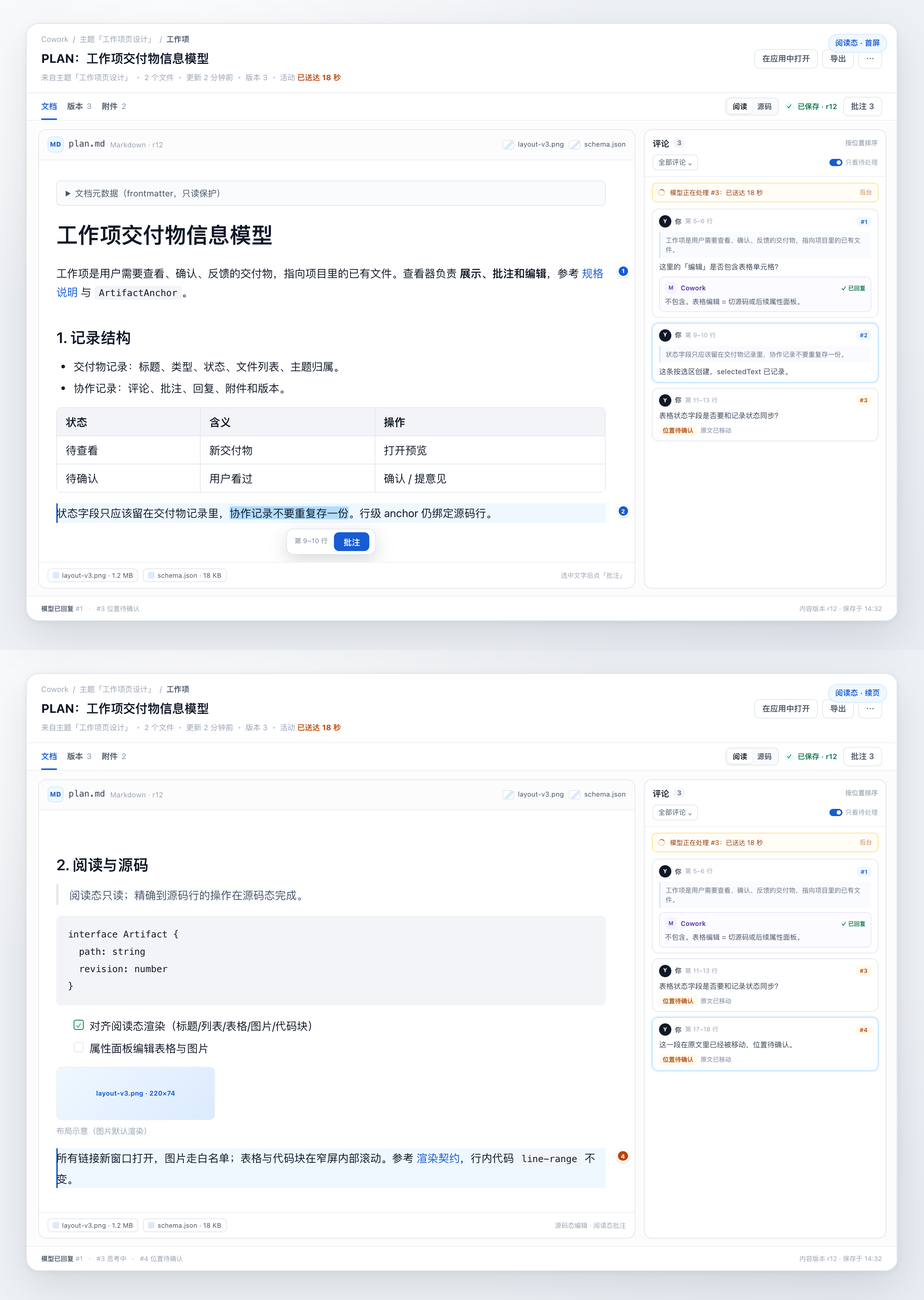
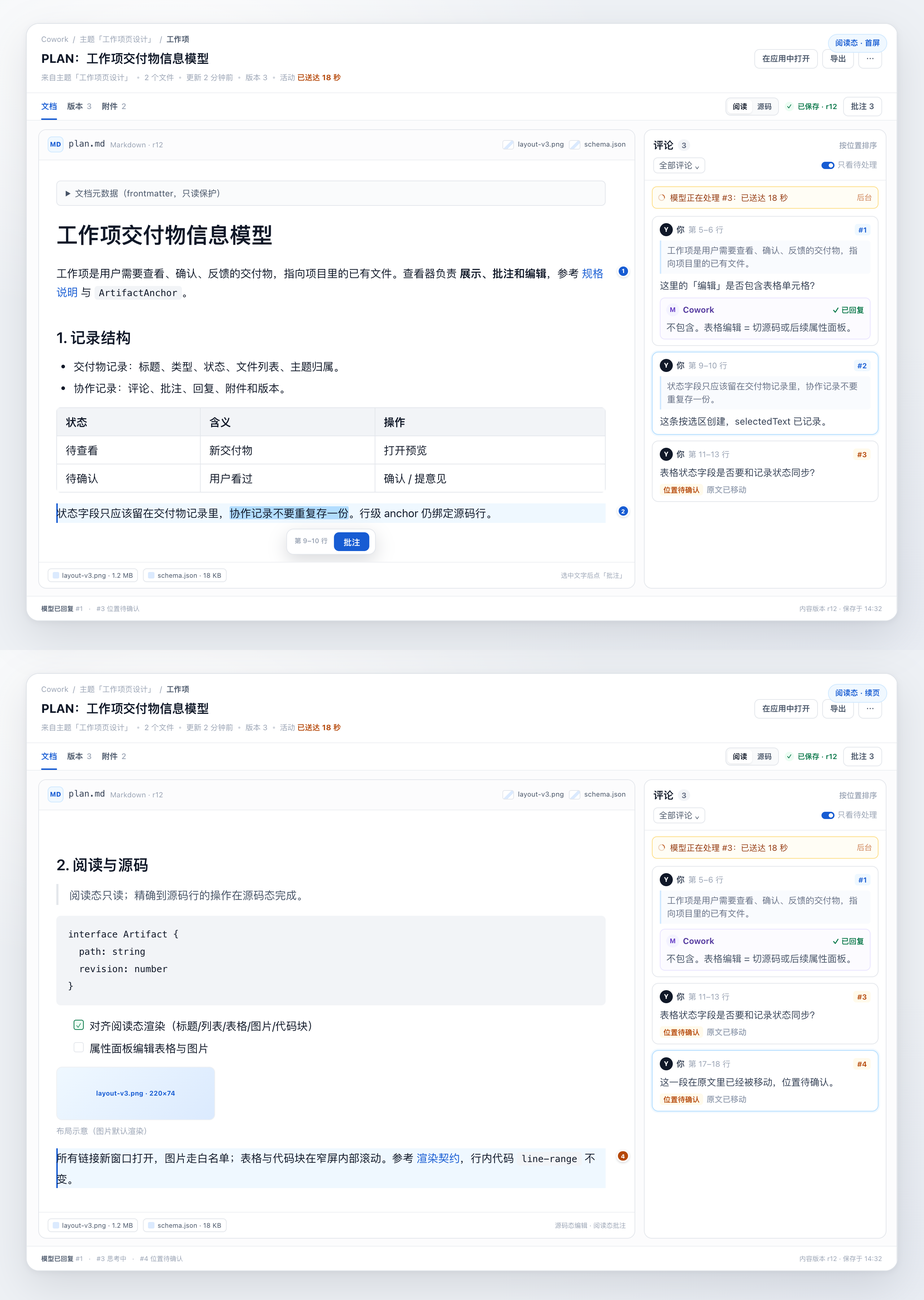
docs(work-item): 放大批注栏与批注内容字号
- 批注正文 13/20、引用 12/18、meta 11/16、chip 10/14，栏标题 14/20
- 同步批注历史、会话详情、390 抽屉与阅读态 demo 截图
- 工作项列表卡片字号不变，避免与批注内容混用层级

Changed region(s): [[0.6875, 0.0933, 0.9375, 0.4044], [0.6875, 0.5911, 0.9375, 0.8711]]

diff --git a/docs/design/work-item/assets/annotation-rail-demo.html b/docs/design/work-item/assets/annotation-rail-demo.html
@@ -27,7 +27,7 @@
   .board { display:flex; flex-direction:column; gap:10px; }
   .board-label { width:1208px; color:#667085; font-size:11px; font-weight:700; letter-spacing:.08em; text-transform:uppercase; }
   .board-label span { color:#98a2b3; font-weight:500; letter-spacing:0; text-transform:none; }
-  .app { position:relative; width:1208px; height:688px; display:flex; overflow:hidden; border:1px solid #dfe3e8; border-radius:16px; background:#fff; box-shadow:0 18px 48px rgba(16,24,40,.10), 0 2px 8px rgba(16,24,40,.06); }
+  .app { position:relative; width:1208px; height:760px; display:flex; overflow:hidden; border:1px solid #dfe3e8; border-radius:16px; background:#fff; box-shadow:0 18px 48px rgba(16,24,40,.10), 0 2px 8px rgba(16,24,40,.06); }
   .badge { position:absolute; top:12px; right:12px; z-index:20; padding:3px 9px; border:1px solid #d1e9ff; border-radius:999px; background:rgba(239,248,255,.94); color:var(--blue); font-size:10.5px; font-weight:650; }
 
   /* ===== board 1: right-rail list ===== */
@@ -88,16 +88,16 @@
   .file-icon { width:22px; height:22px; display:grid; place-items:center; border-radius:6px; background:var(--blue-soft); color:var(--blue); font-size:9px; font-weight:800; }
   .file-name { font-family:var(--mono); font-size:12px; }
   .file-meta { margin-left:auto; font-size:11px; color:var(--soft); }
-  .lines { position:relative; font-size:14px; line-height:24px; color:var(--ink); background:linear-gradient(90deg, var(--gutter) 0 48px, var(--gutter-line) 48px 49px, transparent 49px); padding:6px 0 14px; }
+  .lines { position:relative; font-size:15px; line-height:26.25px; color:var(--ink); background:linear-gradient(90deg, var(--gutter) 0 48px, var(--gutter-line) 48px 49px, transparent 49px); padding:6px 0 14px; }
   .line { position:relative; display:flex; align-items:flex-start; gap:8px; padding:1px 40px 1px 60px; white-space:pre-wrap; border-left:2px solid transparent; }
   .line:hover { background:var(--surface-muted); }
   .line.selected { background:var(--blue-soft); border-left-color:var(--blue); }
-  .line-num { position:absolute; left:12px; top:0; width:36px; text-align:right; color:var(--soft); font-family:var(--mono); font-size:10.5px; line-height:24px; }
+  .line-num { position:absolute; left:12px; top:0; width:36px; text-align:right; color:var(--soft); font-family:var(--mono); font-size:11px; line-height:26.25px; }
   .pin { position:absolute; right:6px; top:2px; min-width:17px; height:17px; padding:0 4px; display:inline-grid; place-items:center; border:2px solid #fff; border-radius:999px; background:var(--blue); color:#fff; font-size:8px; font-weight:800; line-height:1; box-shadow:0 1px 3px rgba(16,24,40,.18); }
   .pin.p-resolved { background:var(--green); }
-  .md-h1 { font-size:21px; line-height:30px; font-weight:700; }
-  .md-h2 { font-size:19px; line-height:28px; font-weight:700; }
-  .md-h3 { font-size:17px; line-height:26px; font-weight:700; }
+  .md-h1 { font-size:30px; line-height:39px; font-weight:700; }
+  .md-h2 { font-size:21px; line-height:28.35px; font-weight:600; }
+  .md-h3 { font-size:17.25px; line-height:24.15px; font-weight:600; }
   .line[data-kind="h1"] { padding-top:12px; }
   .line[data-kind="h2"] { padding-top:10px; }
   .inline-code { font-family:var(--mono); font-size:.88em; padding:1px 4px; border-radius:4px; background:var(--surface-muted); }
@@ -111,69 +111,70 @@
   .rail { flex:none; width:336px; min-height:0; display:flex; flex-direction:column; background:#fff; border:1px solid var(--line); border-radius:12px; box-shadow:0 1px 2px rgba(16,24,40,.05); overflow:hidden; }
   .rail-grip { position:absolute; left:-3px; top:0; bottom:0; width:6px; cursor:col-resize; background:transparent; }
   .rail-grip:hover, .rail-grip:focus { background:var(--blue-soft); }
-  .rail-head { flex:none; display:flex; flex-direction:column; gap:6px; padding:10px 12px 8px; border-bottom:1px solid var(--line-soft); }
+  .rail-head { flex:none; display:flex; flex-direction:column; gap:6px; padding:11px 12px 9px; border-bottom:1px solid var(--line-soft); }
   .rail-head-row { display:flex; align-items:center; gap:6px; }
-  .rail-title { font-size:12px; font-weight:700; }
-  .count-pill { min-width:20px; padding:0 6px; border-radius:999px; background:var(--surface-muted); color:var(--muted); font-size:10px; font-weight:700; line-height:18px; text-align:center; }
-  .rail-sort { margin-left:auto; color:var(--soft); font-size:9.5px; }
+  .rail-title { font-size:14px; line-height:20px; font-weight:650; }
+  .count-pill { min-width:20px; padding:0 6px; border-radius:999px; background:var(--surface-muted); color:var(--muted); font-size:10.5px; font-weight:700; line-height:16px; text-align:center; }
+  .rail-sort { margin-left:auto; color:var(--soft); font-size:10.5px; line-height:16px; font-weight:500; }
   .rail-tools { display:flex; align-items:center; gap:8px; }
-  .select { height:20px; max-width:108px; padding:0 6px; border:1px solid var(--line); border-radius:6px; background:#fff; color:var(--muted); font:inherit; font-size:10px; }
-  .switch { display:inline-flex; align-items:center; gap:5px; color:var(--soft); font-size:10px; cursor:pointer; user-select:none; }
+  .select { height:22px; max-width:112px; padding:0 6px; border:1px solid var(--line); border-radius:6px; background:#fff; color:var(--muted); font:inherit; font-size:11.5px; }
+  .switch { display:inline-flex; align-items:center; gap:5px; color:var(--soft); font-size:11px; line-height:16px; cursor:pointer; user-select:none; }
   .switch input { position:absolute; width:1px; height:1px; opacity:0; }
   .switch-track { position:relative; width:20px; height:11px; border-radius:999px; background:var(--line); }
   .switch-thumb { position:absolute; top:2px; left:2px; width:7px; height:7px; border-radius:50%; background:#fff; }
   .switch input:checked + .switch-track { background:var(--blue); }
   .switch input:checked + .switch-track .switch-thumb { transform:translateX(9px); }
-  .threads { flex:1; min-height:0; overflow:auto; padding:9px 10px; display:flex; flex-direction:column; gap:7px; }
-  .thread { display:flex; flex-direction:column; gap:5px; border:1px solid var(--line); border-radius:9px; background:#fff; padding:8px 9px 6px; cursor:pointer; }
+  .threads { flex:1; min-height:0; overflow:auto; padding:10px 10px 9px; display:flex; flex-direction:column; gap:8px; }
+  .thread { display:flex; flex-direction:column; gap:6px; border:1px solid var(--line); border-radius:9px; background:#fff; padding:9px 10px 8px; cursor:pointer; }
   .thread:hover { border-color:var(--blue-ring); }
   .thread[data-selected="true"] { border-color:var(--blue-ring); box-shadow:0 0 0 2px var(--blue-soft); }
-  .thread-head { display:flex; align-items:center; gap:5px; min-width:0; }
-  .avatar { width:17px; height:17px; display:grid; place-items:center; border-radius:50%; background:var(--ink); color:#fff; font-size:7.5px; font-weight:800; }
+  .thread-head { display:flex; align-items:center; gap:6px; min-width:0; }
+  .avatar { width:18px; height:18px; display:grid; place-items:center; border-radius:50%; background:var(--ink); color:#fff; font-size:9px; font-weight:800; }
   .avatar[data-author="model"] { background:var(--violet-soft); color:var(--violet); }
-  .thread-author { color:var(--ink); font-size:11px; font-weight:650; }
-  .thread-anchor { color:var(--soft); font-size:9.5px; overflow:hidden; text-overflow:ellipsis; white-space:nowrap; }
-  .anchor-chip { flex:none; margin-left:auto; padding:1px 5px; border-radius:4px; background:var(--blue-soft); color:var(--blue); font-size:9px; font-weight:700; }
+  .thread-author { color:var(--ink); font-size:11.5px; line-height:16px; font-weight:650; }
+  .thread-anchor { color:var(--soft); font-size:11px; line-height:16px; overflow:hidden; text-overflow:ellipsis; white-space:nowrap; }
+  .anchor-chip { flex:none; margin-left:auto; padding:1px 5px; border-radius:4px; background:var(--blue-soft); color:var(--blue); font-size:10px; line-height:14px; font-weight:650; }
   .anchor-chip[data-tone="done"] { background:var(--green-soft); color:var(--green); }
-  .quote { width:100%; text-align:left; padding:4px 7px; border:0; border-left:2px solid #d1e9ff; border-radius:0 4px 4px 0; background:#f9fbfe; color:var(--muted); font-size:9.5px; white-space:pre-wrap; cursor:pointer; }
-  .thread-body { font-size:11px; line-height:1.55; white-space:pre-wrap; word-break:break-word; }
-  .thread-meta { display:flex; flex-wrap:wrap; gap:5px; align-items:center; font-size:9.5px; color:var(--soft); }
-  .tstate { display:flex; align-items:center; gap:6px; padding:5px 7px; border:1px solid var(--amber-soft); border-radius:7px; background:var(--amber-soft); color:var(--amber); font-size:9.5px; }
+  .quote { display:-webkit-box; width:100%; text-align:left; padding:5px 8px; overflow:hidden; border:0; border-left:2px solid #d1e9ff; border-radius:0 4px 4px 0; background:#f9fbfe; color:var(--muted); font:inherit; font-size:12px; line-height:18px; white-space:pre-wrap; cursor:pointer; -webkit-line-clamp:2; -webkit-box-orient:vertical; }
+  .thread-body { font-size:13px; line-height:20px; white-space:pre-wrap; word-break:break-word; }
+  .thread-meta { display:flex; flex-wrap:wrap; gap:5px; align-items:center; font-size:11px; line-height:16px; color:var(--soft); }
+  .tstate { display:flex; align-items:center; gap:6px; padding:5px 7px; border:1px solid var(--amber-soft); border-radius:7px; background:var(--amber-soft); color:var(--amber); font-size:11px; line-height:16px; font-weight:600; }
   .tstate[data-tone="error"] { border-color:var(--red-soft); background:var(--red-soft); color:var(--red); }
   .tstate[data-tone="done"] { border-color:var(--green-soft); background:var(--green-soft); color:var(--green); }
-  .tstate-retry { margin-left:2px; padding:0; border:0; background:transparent; color:inherit; font:inherit; font-size:9.5px; font-weight:700; text-decoration:underline; cursor:pointer; }
+  .tstate-retry { margin-left:2px; padding:0; border:0; background:transparent; color:inherit; font:inherit; font-size:11px; font-weight:650; text-decoration:underline; cursor:pointer; }
   .tstate-age { margin-left:auto; opacity:.7; white-space:nowrap; }
   .thread-actions { display:flex; align-items:center; gap:8px; margin-top:2px; }
   .thread-actions .spacer { flex:1; }
-  .thread-action { padding:1px 0; border:0; background:transparent; color:var(--soft); font:inherit; font-size:9.5px; font-weight:600; cursor:pointer; }
+  .thread-action { padding:1px 0; border:0; background:transparent; color:var(--soft); font:inherit; font-size:11px; line-height:16px; font-weight:600; cursor:pointer; }
   .thread-action:hover { color:var(--ink); }
-  .resolved-line { display:flex; align-items:center; gap:6px; width:100%; padding:7px 9px; border:1px dashed var(--line); border-radius:9px; background:#fff; color:var(--muted); font-size:10px; text-align:left; cursor:pointer; }
+  .resolved-line { display:flex; align-items:center; gap:6px; width:100%; padding:8px 10px; border:1px dashed var(--line); border-radius:9px; background:#fff; color:var(--muted); font-size:11.5px; line-height:16px; text-align:left; cursor:pointer; }
   .resolved-text { flex:1; overflow:hidden; text-overflow:ellipsis; white-space:nowrap; }
 
   /* session state */
   .session { flex:1; min-height:0; display:flex; flex-direction:column; }
-  .session-head { flex:none; display:flex; align-items:center; gap:6px; padding:10px 12px 8px; border-bottom:1px solid var(--line-soft); }
-  .back { padding:1px 8px; border:1px solid var(--line); border-radius:6px; background:#fff; color:var(--ink); font:inherit; font-size:10px; font-weight:600; cursor:pointer; }
-  .session-title { font-size:11px; font-weight:650; }
-  .session-anchor { color:var(--soft); font-size:9.5px; }
+  .rail.session { flex:none; width:336px; }
+  .session-head { flex:none; display:flex; align-items:center; gap:6px; padding:11px 12px 9px; border-bottom:1px solid var(--line-soft); }
+  .back { padding:1px 8px; border:1px solid var(--line); border-radius:6px; background:#fff; color:var(--ink); font:inherit; font-size:11.5px; line-height:16px; font-weight:600; cursor:pointer; }
+  .session-title { font-size:13px; line-height:18px; font-weight:650; }
+  .session-anchor { color:var(--soft); font-size:11px; line-height:16px; }
   .msgs { flex:1; min-height:0; overflow:auto; padding:10px; display:flex; flex-direction:column; gap:8px; }
   .msg { display:flex; flex-direction:column; gap:4px; }
   .msg-head { display:flex; align-items:center; gap:5px; }
-  .msg-author { font-size:10px; font-weight:650; }
-  .msg-time { color:var(--soft); font-size:9.5px; }
-  .reply-mark { color:var(--green); font-size:9px; font-weight:650; }
-  .msg-body { font-size:11px; line-height:1.55; white-space:pre-wrap; }
-  .msg-user { padding:8px 9px; border:1px solid var(--line); border-radius:9px; background:#fff; }
-  .msg-model { padding:8px 9px; border:1px solid var(--violet-border); border-radius:9px; background:var(--violet-soft); }
+  .msg-author { font-size:11.5px; line-height:16px; font-weight:650; }
+  .msg-time { color:var(--soft); font-size:10.5px; line-height:16px; }
+  .reply-mark { color:var(--green); font-size:10.5px; line-height:16px; font-weight:650; }
+  .msg-body { font-size:13px; line-height:20px; white-space:pre-wrap; }
+  .msg-user { padding:9px 10px; border:1px solid var(--line); border-radius:9px; background:#fff; }
+  .msg-model { padding:9px 10px; border:1px solid var(--violet-border); border-radius:9px; background:var(--violet-soft); }
   .attachments { display:flex; flex-direction:column; gap:4px; align-items:flex-start; }
   .thumb { max-width:220px; max-height:140px; border-radius:8px; border:1px solid var(--line-soft); display:block; cursor:zoom-in; }
-  .att-meta { font-size:9.5px; color:var(--soft); }
-  .composer { flex:none; margin:0 10px 10px; padding:8px 9px; border:1px solid var(--line); border-radius:9px; background:#fff; display:flex; flex-direction:column; gap:6px; box-shadow:0 3px 10px rgba(16,24,40,.04); }
-  .composer textarea { width:100%; min-height:54px; max-height:160px; resize:vertical; border:1px solid var(--line-soft); border-radius:8px; background:#fff; color:inherit; padding:6px 8px; font:inherit; font-size:11.5px; line-height:1.6; }
+  .att-meta { font-size:11px; line-height:16px; color:var(--soft); }
+  .composer { flex:none; margin:0 10px 10px; padding:9px 10px; border:1px solid var(--line); border-radius:9px; background:#fff; display:flex; flex-direction:column; gap:7px; box-shadow:0 3px 10px rgba(16,24,40,.04); }
+  .composer textarea { width:100%; min-height:58px; max-height:160px; resize:vertical; border:1px solid var(--line-soft); border-radius:8px; background:#fff; color:inherit; padding:7px 9px; font:inherit; font-size:13px; line-height:20px; }
   .composer-row { display:flex; gap:8px; align-items:center; justify-content:space-between; }
-  .composer-hint { font-size:9.5px; color:var(--soft); }
-  .btn-primary { border:1px solid transparent; background:var(--ink); color:#fff; font:inherit; font-size:11.5px; font-weight:600; border-radius:7px; padding:3px 10px; cursor:pointer; }
-  .btn-secondary { border:1px solid var(--line); background:#fff; color:var(--ink); font:inherit; font-size:11.5px; font-weight:600; border-radius:7px; padding:3px 10px; cursor:pointer; }
+  .composer-hint { font-size:11px; line-height:16px; color:var(--soft); }
+  .btn-primary { border:1px solid transparent; background:var(--ink); color:#fff; font:inherit; font-size:11.5px; line-height:16px; font-weight:600; border-radius:7px; padding:4px 10px; cursor:pointer; }
+  .btn-secondary { border:1px solid var(--line); background:#fff; color:var(--ink); font:inherit; font-size:11.5px; line-height:16px; font-weight:600; border-radius:7px; padding:4px 10px; cursor:pointer; }
 
   /* narrow drawer board 5 */
   .narrow-app { position:relative; width:768px; height:640px; display:flex; overflow:hidden; border:1px solid #dfe3e8; border-radius:16px; background:#fff; box-shadow:0 18px 48px rgba(16,24,40,.10); }
@@ -181,7 +182,7 @@
   .drawer { position:absolute; left:0; right:0; bottom:0; height:min(72%, 460px); z-index:31; background:#fff; border:1px solid var(--line); border-radius:14px 14px 0 0; box-shadow:0 -12px 32px rgba(16,24,40,.18); display:flex; flex-direction:column; overflow:hidden; }
   .backdrop { position:absolute; inset:0 0 0 0; bottom:0; background:rgba(16,24,40,.4); z-index:30; }
   .drawer .rail-head { border-top:1px solid var(--line-soft); }
-  .drawer .rail-close { margin-left:4px; padding:1px 8px; border:1px solid var(--line); border-radius:6px; background:#fff; color:var(--ink); font:inherit; font-size:10px; font-weight:600; cursor:pointer; }
+  .drawer .rail-close { margin-left:4px; padding:1px 8px; border:1px solid var(--line); border-radius:6px; background:#fff; color:var(--ink); font:inherit; font-size:11.5px; line-height:16px; font-weight:600; cursor:pointer; }
 
   @media (prefers-reduced-motion: reduce) { * { animation:none !important; transition:none !important; } }
 </style>

diff --git a/docs/design/work-item/assets/wysiwyg-editor-demo.html b/docs/design/work-item/assets/wysiwyg-editor-demo.html
@@ -192,36 +192,36 @@
 
   /* ---------- thread rail ---------- */
   .threads { width: 336px; flex: none; display: flex; flex-direction: column; border: 1px solid var(--line); border-radius: 11px; background: #fff; overflow: hidden; }
-  .threads-head { flex: none; padding: 10px 11px 8px; border-bottom: 1px solid var(--line-soft); }
-  .th-title { display: flex; align-items: center; gap: 6px; color: #101828; font-size: 11.5px; font-weight: 700; }
-  .th-title .count { padding: 0 5px; border-radius: 999px; background: #f2f4f7; color: #667085; font-size: 9px; font-weight: 700; }
+  .threads-head { flex: none; padding: 11px 12px 9px; border-bottom: 1px solid var(--line-soft); }
+  .th-title { display: flex; align-items: center; gap: 6px; color: #101828; font-size: 14px; line-height: 20px; font-weight: 650; }
+  .th-title .count { padding: 0 5px; border-radius: 999px; background: #f2f4f7; color: #667085; font-size: 10.5px; line-height: 16px; font-weight: 700; }
   .th-tools { display: flex; align-items: center; gap: 6px; margin-top: 7px; }
-  .th-tools .select { display: flex; align-items: center; gap: 4px; height: 22px; padding: 0 7px; border: 1px solid var(--line); border-radius: 6px; color: var(--muted); font-size: 9.5px; }
-  .th-tools .switch { margin-left: auto; display: flex; align-items: center; gap: 4px; color: var(--soft); font-size: 9px; }
+  .th-tools .select { display: flex; align-items: center; gap: 4px; height: 22px; padding: 0 7px; border: 1px solid var(--line); border-radius: 6px; color: var(--muted); font-size: 11.5px; }
+  .th-tools .switch { margin-left: auto; display: flex; align-items: center; gap: 4px; color: var(--soft); font-size: 11px; }
   .switch i { width: 18px; height: 10px; border-radius: 999px; background: var(--blue); position: relative; }
   .switch i::after { content: ""; position: absolute; top: 2px; left: 10px; width: 6px; height: 6px; border-radius: 50%; background: #fff; }
-  .activity { flex: none; display: flex; align-items: center; gap: 7px; margin: 8px 10px 0; padding: 6px 8px; border: 1px solid #fedf89; border-radius: 7px; background: #fffdf5; color: #93370d; font-size: 9px; }
+  .activity { flex: none; display: flex; align-items: center; gap: 7px; margin: 8px 10px 0; padding: 6px 8px; border: 1px solid #fedf89; border-radius: 7px; background: #fffdf5; color: #93370d; font-size: 11.5px; line-height: 17px; }
   .activity .spinner { width: 9px; height: 9px; border: 1.5px solid rgba(181,71,8,.28); border-top-color: var(--amber); border-radius: 50%; animation: spin 1.1s linear infinite; }
   @keyframes spin { to { transform: rotate(360deg); } }
   .activity .grow { flex: 1; }
-  .activity .time { color: #b54708; opacity: .7; font-size: 8.5px; }
-  .thread-scroll { flex: 1; min-height: 0; overflow: hidden; padding: 9px 10px 8px; }
-  .thread { margin-bottom: 7px; padding: 8px 9px 7px; border: 1px solid var(--line); border-radius: 9px; background: #fff; }
+  .activity .time { color: #b54708; opacity: .7; font-size: 10.5px; }
+  .thread-scroll { flex: 1; min-height: 0; overflow-y: auto; padding: 10px 10px 9px; }
+  .thread { margin-bottom: 8px; padding: 9px 10px 8px; border: 1px solid var(--line); border-radius: 9px; background: #fff; }
   .thread.selected { border-color: #b2ddff; box-shadow: 0 0 0 2px #eff8ff; }
-  .tmeta { display: flex; align-items: center; gap: 5px; color: var(--soft); font-size: 8.5px; }
-  .avatar { width: 17px; height: 17px; flex: none; display: grid; place-items: center; border-radius: 50%; background: #101828; color: #fff; font-size: 7.5px; font-weight: 800; }
+  .tmeta { display: flex; align-items: center; gap: 5px; color: var(--soft); font-size: 11px; line-height: 16px; }
+  .avatar { width: 18px; height: 18px; flex: none; display: grid; place-items: center; border-radius: 50%; background: #101828; color: #fff; font-size: 9px; font-weight: 800; }
   .avatar.model { background: var(--violet-soft); color: var(--violet); }
-  .tmeta b { color: #344054; font-size: 9px; font-weight: 650; }
-  .tmeta .anchor { margin-left: auto; padding: 1px 5px; border-radius: 4px; background: #eff8ff; color: var(--blue); font-size: 8px; font-weight: 650; }
-  .quote { margin: 6px 0 0; padding: 5px 7px; border-left: 2px solid #d1e9ff; border-radius: 0 4px 4px 0; background: #f9fbfe; color: #667085; font-size: 9px; line-height: 1.45; }
-  .ttext { margin-top: 5px; color: #344054; font-size: 10px; line-height: 1.5; }
-  .reply { margin-top: 6px; padding: 6px 7px 5px; border: 1px solid #e9e4ff; border-radius: 7px; background: #fcfbff; }
+  .tmeta b { color: #344054; font-size: 11.5px; line-height: 16px; font-weight: 650; }
+  .tmeta .anchor { margin-left: auto; padding: 1px 5px; border-radius: 4px; background: #eff8ff; color: var(--blue); font-size: 10px; line-height: 14px; font-weight: 650; }
+  .quote { display: -webkit-box; margin: 6px 0 0; padding: 5px 8px; overflow: hidden; border-left: 2px solid #d1e9ff; border-radius: 0 4px 4px 0; background: #f9fbfe; color: #667085; font-size: 12px; line-height: 18px; -webkit-line-clamp: 2; -webkit-box-orient: vertical; }
+  .ttext { margin-top: 6px; color: #344054; font-size: 13px; line-height: 20px; }
+  .reply { margin-top: 7px; padding: 7px 8px 6px; border: 1px solid #e9e4ff; border-radius: 7px; background: #fcfbff; }
   .reply-head { display: flex; align-items: center; gap: 5px; }
-  .reply-head .who { color: #53389e; font-size: 9px; font-weight: 650; }
-  .reply-head .state { margin-left: auto; display: inline-flex; align-items: center; gap: 3px; color: var(--green); font-size: 8px; font-weight: 650; }
-  .reply-body { margin-top: 4px; color: #475467; font-size: 9.5px; line-height: 1.5; }
-  .tstate { display: flex; align-items: center; gap: 5px; margin-top: 6px; color: var(--amber); font-size: 8.5px; font-weight: 600; }
-  .tstate .stale-chip { padding: 1px 5px; border-radius: 4px; background: var(--amber-soft); color: var(--amber); font-weight: 650; }
+  .reply-head .who { color: #53389e; font-size: 11.5px; line-height: 16px; font-weight: 650; }
+  .reply-head .state { margin-left: auto; display: inline-flex; align-items: center; gap: 3px; color: var(--green); font-size: 10.5px; line-height: 16px; font-weight: 650; }
+  .reply-body { margin-top: 5px; color: #475467; font-size: 13px; line-height: 20px; }
+  .tstate { display: flex; align-items: center; gap: 5px; margin-top: 6px; color: var(--amber); font-size: 11px; line-height: 16px; font-weight: 600; }
+  .tstate .stale-chip { padding: 1px 5px; border-radius: 4px; background: var(--amber-soft); color: var(--amber); font-size: 10px; line-height: 14px; font-weight: 650; }
   .vfoot { flex: none; display: flex; align-items: center; gap: 8px; height: 34px; padding: 0 20px; border-top: 1px solid var(--line-soft); background: #fff; color: var(--soft); font-size: 9px; }
   .vfoot .grow { flex: 1; }
   .vfoot b { color: var(--muted); font-weight: 650; }
@@ -328,7 +328,7 @@ updated: 2026-11-23</pre>
 
         <aside class="threads">
           <div class="threads-head">
-            <div class="th-title">评论 <span class="count">3</span><span style="margin-left:auto;color:#98a2b3;font-size:9px;font-weight:500">按位置排序</span></div>
+            <div class="th-title">评论 <span class="count">3</span><span style="margin-left:auto;color:#98a2b3;font-size:10.5px;line-height:16px;font-weight:500">按位置排序</span></div>
             <div class="th-tools">
               <span class="select">全部评论 ⌄</span>
               <span class="switch"><i></i>只看待处理</span>
@@ -459,7 +459,7 @@ updated: 2026-11-23</pre>
 
         <aside class="threads">
           <div class="threads-head">
-            <div class="th-title">评论 <span class="count">3</span><span style="margin-left:auto;color:#98a2b3;font-size:9px;font-weight:500">按位置排序</span></div>
+            <div class="th-title">评论 <span class="count">3</span><span style="margin-left:auto;color:#98a2b3;font-size:10.5px;line-height:16px;font-weight:500">按位置排序</span></div>
             <div class="th-tools">
               <span class="select">全部评论 ⌄</span>
               <span class="switch"><i></i>只看待处理</span>

diff --git a/docs/design/work-item/work-item-rail-and-annotation.md b/docs/design/work-item/work-item-rail-and-annotation.md
@@ -186,9 +186,33 @@ Cowork 面板 → 工作项标签（session scope，右栏宽约 300–420px）
 | 浮动批注入口 | 高 26px；圆角 7px；accent 底白字（或 surface+accent 描边）；`box-shadow 0 2px 8px`；距选区右上 `top:-34px`，clamp 内容盒；不遮挡选区文字 |
 | 部分文字选区 | 浏览器原生 selection 高亮；批注入口出现时不改变选区；会话头显示 `selectedText` 单行省略（最大 240px），无 `selectedText` 时显示整行 quote |
 | 批注栏宽度 | 默认 336px，范围 280–560px（`min(560, container − 360)`）；grip 左缘 6px 宽，hover/focus accent |
-| 列表态摘要卡 | 紧凑卡：`#N` chip 9px/700、`padding 1px 5px` 圆角 4px；选中环 `0 0 0 2px accent-soft`；无 composer |
-| 会话态消息 | 用户消息 surface 底；模型回复 `--cwi-model-soft` 底 + `--cwi-model-border` 边框；附件缩略图 max 220×160 圆角 8px |
+| 列表态摘要卡 | 紧凑卡；`#N` chip 与字号见 §7.1；选中环 `0 0 0 2px accent-soft`；无 composer |
+| 会话态消息 | 用户消息 surface 底；模型回复 `--cwi-model-soft` 底 + `--cwi-model-border` 边框；字号/行高见 §7.1；附件缩略图 max 220×160 圆角 8px |
 | 附件预览弹层 | 规格由 [attachment-pipeline.md](attachment-pipeline.md) §11 拥有；本页只验收触发、Esc/遮罩关闭、焦点返回和窄屏不遮 composer |
+
+### 7.1 批注栏与批注内容排版
+
+本节只约束批注栏与批注内容；右栏工作项列表仍按上表的卡片规格。批注正文取文档正文的 −2px（15px → 13px），再按位置向下递减；常驻正文不得低于 11px，chip 不得低于 10px。位置之间的区分同时用字号、颜色和底色，不只靠字号。
+
+| 位置 | 字号 / 行高 | 字重与风格 |
+|---|---|---|
+| 批注栏标题 | 14px / 20px | 650，ink |
+| 计数 / 排序 | 10.5px / 16px | 700 muted；500 soft，不换行 |
+| 筛选 / 只看待处理 | 11.5px / 16px；11px / 16px | 500；激活 600 |
+| 线程作者 | 11.5px / 16px | 650 ink；时间 10.5px / 16px、500 soft |
+| 行号 / 锚点范围 | 11px / 16px | 500 soft；`#N` chip 10px / 14px、650 accent-soft/accent |
+| 引用原文 | 12px / 18px | 400 muted；2px 左边框 + `--cwi-quote-bg` 底；最多 2 行省略 |
+| 批注正文 | 13px / 20px | 400 ink |
+| 模型回复正文 | 13px / 20px | 400 ink；`--cwi-model-soft` 底；作者 11.5px / 16px、650 violet |
+| 投递 / 状态 | 11px / 16px | 600；按状态取 warn/success/danger，文字与颜色同时表达 |
+| 线程操作（定位 / 标记已解决） | 11px / 16px | 600 soft；hover ink |
+| 会话头 | 返回 11.5px / 16px；标题 13px / 18px；行号 11px / 16px | 600；650；500 soft |
+| 消息作者 / 时间 | 11.5px / 16px；10.5px / 16px | 650；500 soft |
+| composer | 输入 13px / 20px；hint 11px / 16px；按钮 11.5px / 16px | 400；500；600 |
+| 已解决折叠行 | 11.5px / 16px | 600；虚线边框 |
+| 空态 | 12.5px / 18px | 400 soft |
+
+引用用「12px + muted + 左边框 + 浅底」与 13px 正文区分；模型回复用 `model-soft` 底色与 violet 作者区分；状态条保留 11px 但用状态色和图标，不靠缩小字号。正文、引用、meta、chip 四档形成 15 / 13 / 12 / 11 / 10 的层级。
 
 **验收四档**：1280 并排（正文 + 批注栏 336px）；1024 批注栏可缩 280px；768 抽屉；390 单列无横向滚动、附件 chip 最多 1 个 + `+N`。拖拽到 560px 时正文仍 ≥360px 可读；≥1024 档批注栏默认收起时正文满宽。
 
@@ -212,6 +236,7 @@ Cowork 面板 → 工作项标签（session scope，右栏宽约 300–420px）
 - 卡片投影：卡片渲染来源会话名（`sessionTitle ?? '未命名会话'`），不渲染 path 与 ownerSessionId，标题属性不含 path。— `tests`
 - 已完成：`confirmed` 文案「已完成」；折叠态渲染「已完成 N 个工作项」整行卡，展开为正常卡片。— `tests`
 - 批注栏两级：默认 `showRail=false`；工具条「批注 N」打开列表态；列表态无 composer/回复；点卡进会话态；返回列表。— `tests`
+- 批注排版：批注正文 13/20、引用 12/18、meta 11/16、chip 10/14；常驻正文无低于 11px 的字号；引用/正文/模型回复/状态四类可从字号、底色和字重区分。— `browser` + 四档截图
 - 宽度：拖拽/键盘调整钳制 [280, 560]，写 `localStorage`，重开恢复；窄屏抽屉。— `browser`
 - 浮动入口：选中/右键/菜单键出现靠近选区右上角的「批注」按钮，替代旧 sticky 条；点击新建会话。— `browser`
 - 附件预览：图片/文本/未知类型弹层，焦点锁定、Esc/遮罩关闭、下载。— `browser`
